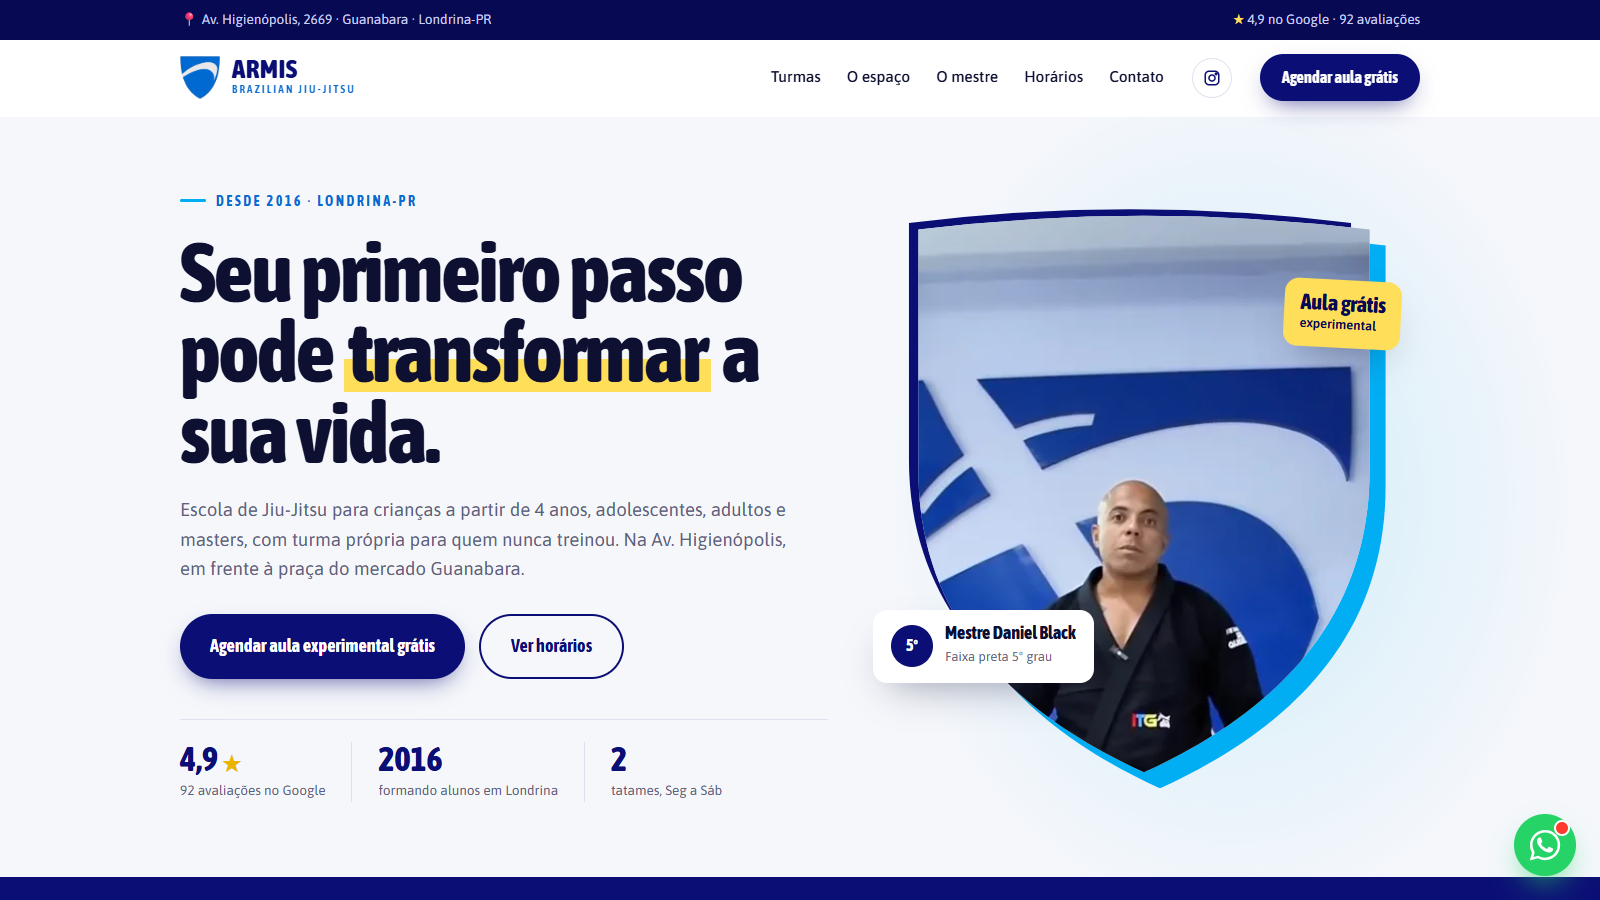
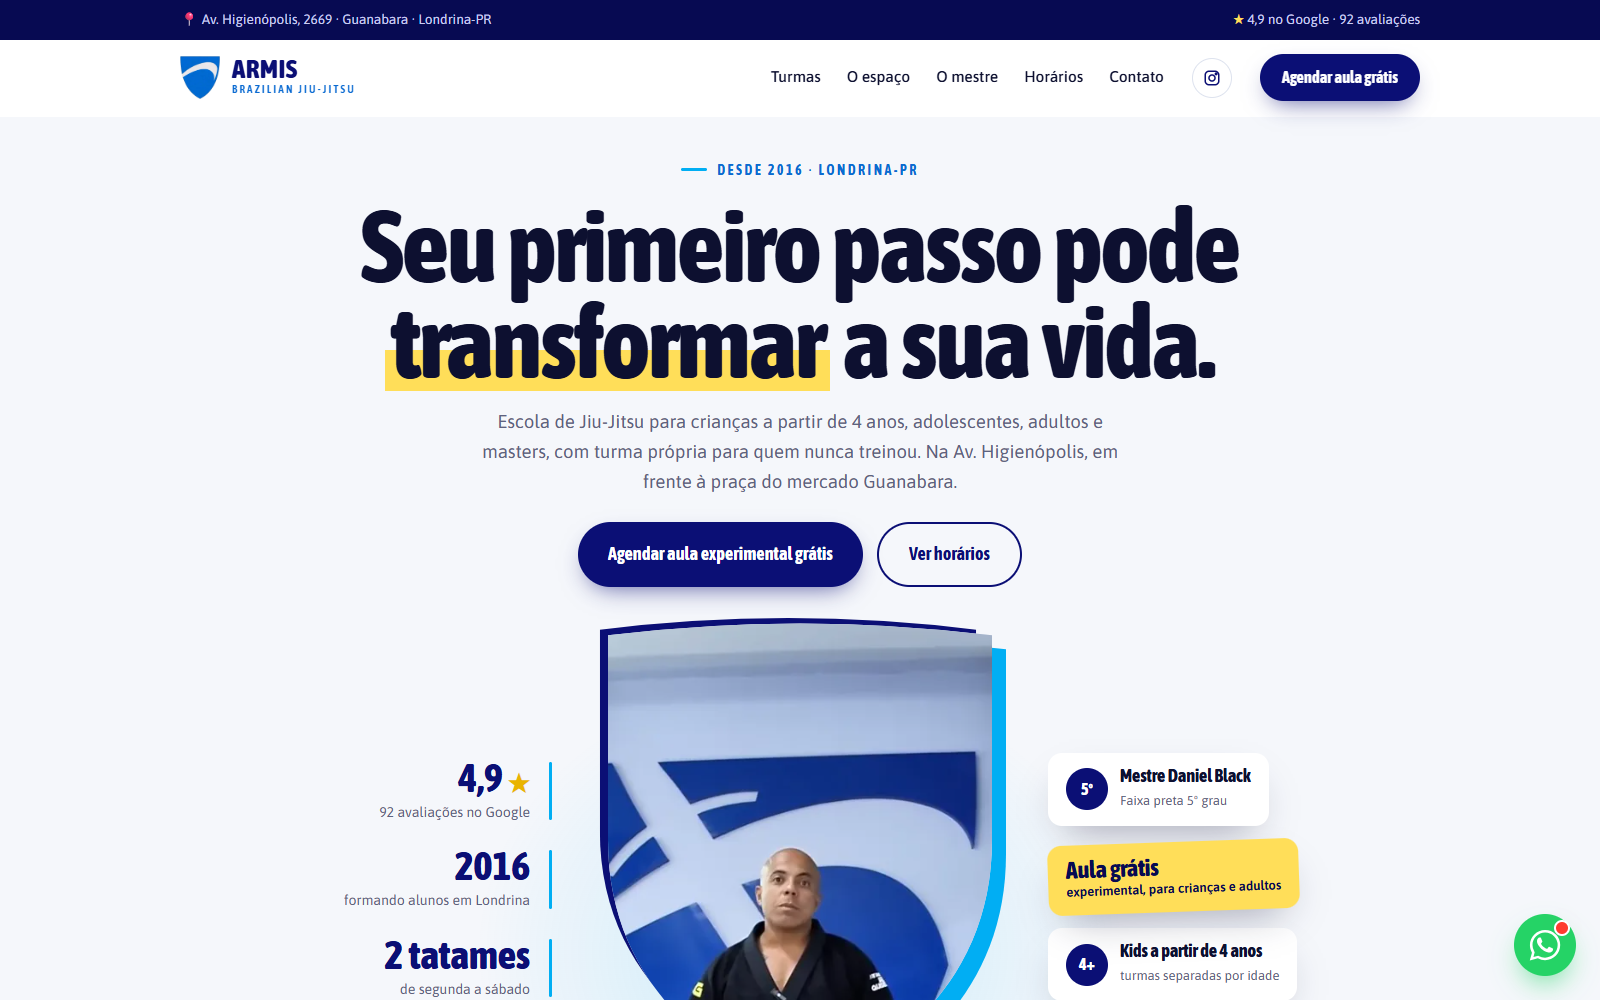
site: Armis - Hero CENTERED_AUTHORITY (evita repetir SPLIT do site anterior)

diff --git a/armis-brazilian-jiu-jitsu-londrina/index.html b/armis-brazilian-jiu-jitsu-londrina/index.html
@@ -114,33 +114,35 @@ h2{font-size:clamp(40px,5.4vw,72px);font-weight:800}
 .burger i::before,.burger i::after{content:"";position:absolute;left:0}
 .burger i::before{top:-6px}.burger i::after{top:6px}
 
-/* HERO — SPLIT_EDITORIAL "escudo" */
+/* HERO — CENTERED_AUTHORITY "escudo central" */
 .hero{background:var(--paper);position:relative;overflow:hidden}
-.hero::before{content:"";position:absolute;right:-8%;top:-30%;width:62%;height:160%;background:radial-gradient(closest-side,rgba(1,174,243,.16),transparent 70%);pointer-events:none}
-.hero .wrap{display:grid;grid-template-columns:minmax(0,1.08fr) minmax(0,.92fr);gap:40px;align-items:center;min-height:min(calc(100svh - 112px),760px);padding:56px 0 64px;position:relative}
-.hero-copy{position:relative;z-index:2}
-.hero h1{font-size:clamp(46px,min(6.6vw,9.4vh),96px);font-weight:800;line-height:.95;margin:20px 0 22px;letter-spacing:-.015em}
-.hero .lead{margin-bottom:30px}
-.hero-ctas{display:flex;flex-wrap:wrap;gap:14px}
-.metrics{display:flex;flex-wrap:wrap;gap:0;margin-top:40px;border-top:1px solid var(--line);padding-top:22px}
-.metrics div{padding:0 26px;border-left:1px solid var(--line)}
-.metrics div:first-child{padding-left:0;border-left:0}
-.metrics b{display:block;font-family:var(--display);font-weight:800;font-size:34px;color:var(--navy);line-height:1;white-space:nowrap}
-.metrics span{font-size:13.5px;color:var(--muted)}
-.metrics .star{color:#E9B400;font-size:22px}
-.hero-art{position:relative;justify-self:center;width:min(470px,100%);aspect-ratio:.84}
+.hero::before{content:"";position:absolute;left:50%;bottom:-28%;width:900px;height:760px;transform:translateX(-50%);background:radial-gradient(closest-side,rgba(1,174,243,.18),transparent 72%);pointer-events:none}
+.hero::after{content:"";position:absolute;left:0;right:0;bottom:0;height:1px;background:var(--line)}
+.hero .wrap{display:flex;flex-direction:column;align-items:center;text-align:center;padding:42px 0 0;position:relative}
+.hero-copy{position:relative;z-index:2;display:flex;flex-direction:column;align-items:center}
+.hero h1{font-size:clamp(46px,min(6.4vw,10.6vh),104px);font-weight:800;line-height:.94;margin:16px 0 18px;letter-spacing:-.015em;max-width:1080px}
+.hero .lead{margin:0 auto 26px;max-width:640px}
+.hero-ctas{display:flex;flex-wrap:wrap;gap:14px;justify-content:center}
+.stage{display:grid;grid-template-columns:minmax(0,1fr) auto minmax(0,1fr);align-items:end;gap:48px;width:100%;margin-top:34px}
+.metrics{display:grid;gap:22px;justify-items:end;text-align:right;padding-bottom:64px}
+.metrics div{position:relative;padding-right:22px}
+.metrics div::after{content:"";position:absolute;right:0;top:4px;bottom:4px;width:3px;border-radius:2px;background:var(--cyan)}
+.metrics b{display:block;font-family:var(--display);font-weight:800;font-size:40px;color:var(--navy);line-height:1;white-space:nowrap}
+.metrics span{font-size:14px;color:var(--muted)}
+.metrics .star{color:#E9B400;font-size:26px;display:inline!important}
+.hero-art{position:relative;width:min(400px,80vw);aspect-ratio:.84;margin-bottom:-8%}
 .shield{position:absolute;inset:0;clip-path:url(#shieldClip);-webkit-clip-path:url(#shieldClip)}
-.shield.back{background:var(--cyan);transform:translate(16px,16px)}
-.shield.back2{background:var(--navy);transform:translate(-14px,-12px) scale(.98)}
+.shield.back{background:var(--cyan);transform:translate(14px,14px)}
+.shield.back2{background:var(--navy);transform:translate(-12px,-10px) scale(.98)}
 .shield.photo{background:#dfe6f3}
 .shield.photo img{width:100%;height:100%;object-fit:cover;object-position:66% 40%;transform:scale(1.22);transform-origin:66% 62%}
-.tag{position:absolute;z-index:3;background:#fff;border-radius:14px;box-shadow:0 18px 40px -18px rgba(13,16,48,.45);padding:14px 18px;display:flex;align-items:center;gap:12px}
-.tag.t1{left:-36px;bottom:16%}
-.tag.t2{right:-22px;top:12%;background:var(--yellow);flex-direction:column;align-items:flex-start;gap:0;padding:12px 16px;rotate:3deg}
+.side{display:grid;gap:16px;justify-items:start;padding-bottom:64px}
+.tag{background:#fff;border-radius:14px;box-shadow:0 18px 40px -18px rgba(13,16,48,.45);padding:14px 18px;display:flex;align-items:center;gap:12px;text-align:left}
+.tag.t2{background:var(--yellow);flex-direction:column;align-items:flex-start;gap:0;padding:12px 18px;rotate:-2deg}
 .tag i{display:grid;place-items:center;width:42px;height:42px;border-radius:50%;background:var(--navy);color:#fff;font-style:normal;font-family:var(--display);font-weight:800;font-size:16px;flex:none}
 .tag b{display:block;font-family:var(--display);font-weight:800;font-size:18px;color:var(--ink);line-height:1.05}
 .tag span{font-size:13px;color:var(--muted)}
-.tag.t2 b{font-size:22px;color:var(--navy-2)}
+.tag.t2 b{font-size:24px;color:var(--navy-2)}
 .tag.t2 span{color:var(--navy-2);font-weight:600}
 
 /* JORNADA (agendamento) */
@@ -353,8 +355,13 @@ footer a:hover{color:#fff}
   #menu a{padding:13px 0;border-bottom:1px solid var(--line)}
   .nav.menu-open #menu{display:flex}
   .nav .ig{display:none}
-  .hero .wrap{grid-template-columns:1fr;min-height:0;padding:40px 0 56px;gap:48px}
-  .hero-art{width:min(400px,86%)}
+  .stage{grid-template-columns:1fr;justify-items:center;gap:28px;margin-top:44px}
+  .stage .hero-art{order:-1;margin-bottom:0}
+  .metrics{grid-template-columns:repeat(3,minmax(0,1fr));justify-items:center;text-align:center;padding-bottom:0;width:100%;gap:10px}
+  .metrics div{padding:0 0 12px}
+  .metrics div::after{left:30%;right:30%;top:auto;bottom:0;width:auto;height:3px}
+  .side{justify-items:center;padding-bottom:56px;grid-template-columns:repeat(2,auto);justify-content:center}
+  .side .tag:last-child{display:none}
   .j-grid,.e-grid,.m-grid,.c-grid{grid-template-columns:1fr;gap:40px}
   .sec-head{flex-direction:column;align-items:flex-start}
   .grade{display:block}
@@ -375,12 +382,10 @@ footer a:hover{color:#fff}
   #menu{top:68px}
   .hero h1{font-size:clamp(40px,11.4vw,54px)}
   .hero-ctas .btn{width:100%}
-  .metrics{display:grid;grid-template-columns:repeat(3,minmax(0,1fr))}
-  .metrics div{padding:0 10px}
-  .metrics b{font-size:26px}
+  .metrics b{font-size:25px}
+  .metrics .star{font-size:18px}
   .metrics span{font-size:12.5px;line-height:1.3;display:block;margin-top:4px}
-  .tag.t1{left:-12px;bottom:2%;padding:10px 12px}
-  .tag.t2{right:-8px}
+  .side{grid-template-columns:1fr}
   .tag b{font-size:16px}
   .t-card.sm{grid-column:span 6}
   .t-body h3{font-size:27px}
@@ -448,18 +453,23 @@ footer a:hover{color:#fff}
         <a class="btn btn-navy" href="#jornada">Agendar aula experimental grátis</a>
         <a class="btn btn-line" href="#horarios">Ver horários</a>
       </div>
+    </div>
+    <div class="stage">
       <div class="metrics">
         <div><b>4,9 <span class="star">★</span></b><span>92 avaliações no Google</span></div>
         <div><b>2016</b><span>formando alunos em Londrina</span></div>
-        <div><b>2</b><span>tatames, Seg a Sáb</span></div>
+        <div><b>2 tatames</b><span>de segunda a sábado</span></div>
       </div>
-    </div>
-    <div class="hero-art" aria-hidden="false">
-      <div class="shield back2" aria-hidden="true"></div>
-      <div class="shield back" aria-hidden="true"></div>
[1 lines of base64/hex data omitted]
-      <div class="tag t1"><i>5º</i><div><b>Mestre Daniel Black</b><span>Faixa preta 5º grau</span></div></div>
-      <div class="tag t2"><b>Aula grátis</b><span>experimental</span></div>
+      <div class="hero-art">
+        <div class="shield back2" aria-hidden="true"></div>
+        <div class="shield back" aria-hidden="true"></div>
[1 lines of base64/hex data omitted]
+      </div>
+      <div class="side">
+        <div class="tag t1"><i>5º</i><div><b>Mestre Daniel Black</b><span>Faixa preta 5º grau</span></div></div>
+        <div class="tag t2"><b>Aula grátis</b><span>experimental, para crianças e adultos</span></div>
+        <div class="tag"><i>4+</i><div><b>Kids a partir de 4 anos</b><span>turmas separadas por idade</span></div></div>
+      </div>
     </div>
   </div>
 </section>
